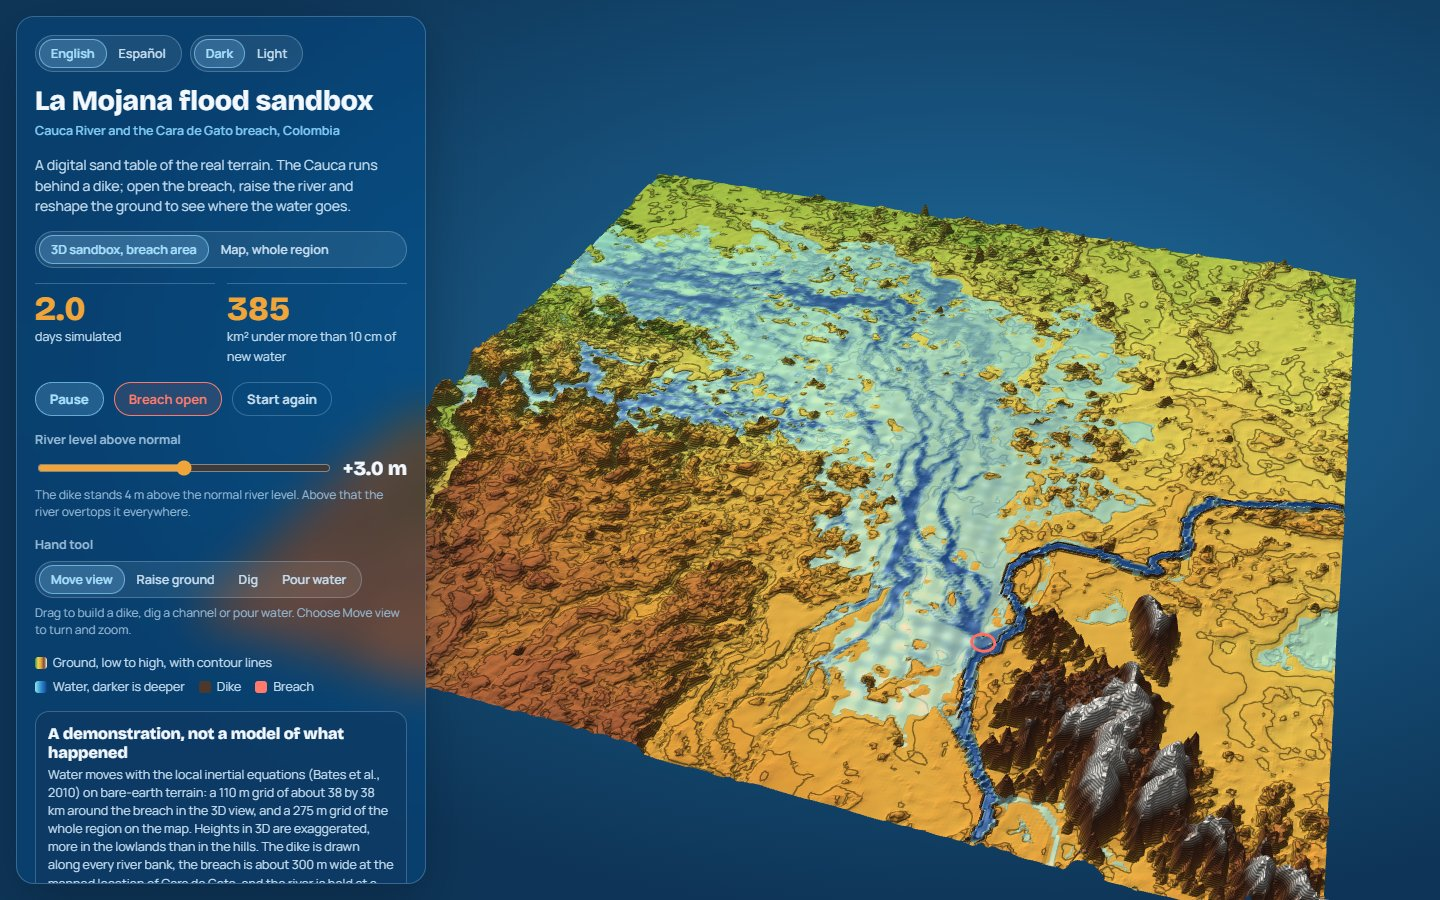
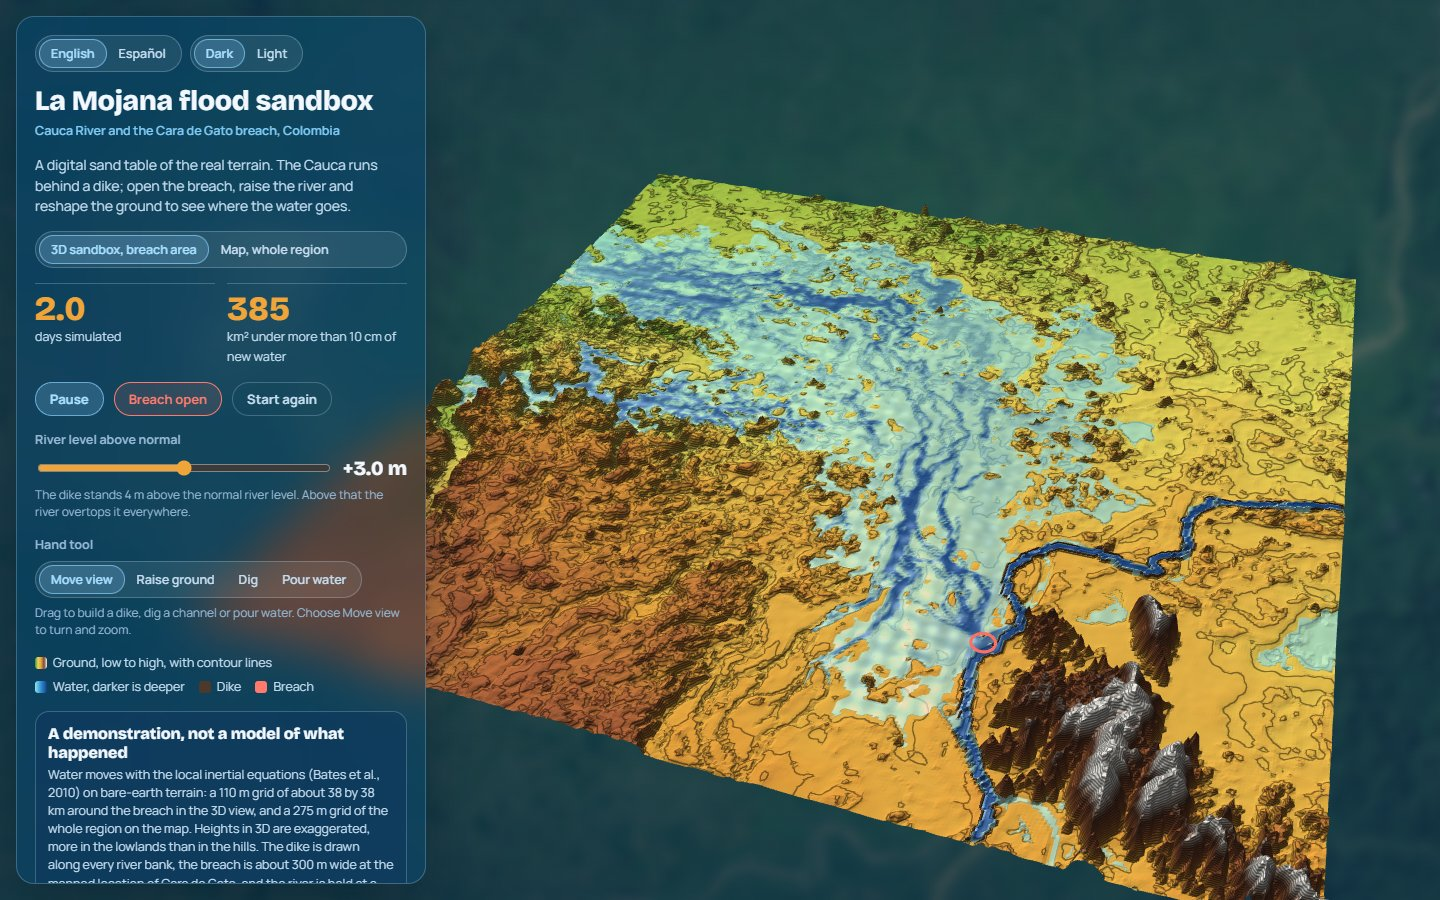
Sandbox: blurred satellite image behind the 3D table

diff --git a/docs/sandbox/index.html b/docs/sandbox/index.html
@@ -30,6 +30,9 @@
 html,body{margin:0;height:100%;background:radial-gradient(ellipse 90% 80% at 68% 42%,var(--bg2),var(--bg) 75%) fixed var(--bg);color:var(--ink);font-family:var(--body);font-size:14px;line-height:1.45}
 #map,#three{position:fixed;inset:0}
 #three{display:block;width:100%;height:100%;touch-action:none}
+#bgmap,#tint{position:fixed;inset:0;pointer-events:none}
+#bgmap{filter:blur(5px) saturate(1.15);transform:scale(1.04)}   /* scaled a little so the blurred edges stay off screen */
+#tint{background:radial-gradient(ellipse 90% 80% at 68% 42%,color-mix(in srgb,var(--bg2) 38%,transparent),color-mix(in srgb,var(--bg) 72%,transparent) 80%)}
 #map.tool,#three.tool{cursor:crosshair}
 [hidden]{display:none!important}
 .ramp{display:inline-block;width:46px;height:12px;border-radius:3px;margin-right:6px;vertical-align:middle;background:linear-gradient(90deg,#3f8f3a,#e3d65a,#e8a33d,#7a4b33,#f2efe9)}
@@ -81,6 +84,7 @@ input[type=range]{flex:1;accent-color:var(--flood)}
 </head>
 <body>
 <canvas id="sim"></canvas>
+<div id="bgmap" aria-hidden="true"></div><div id="tint" aria-hidden="true"></div>
 <canvas id="three" role="img" aria-label="3D view of the terrain around the Cara de Gato breach with the simulated water"></canvas>
 <div id="map" role="img" aria-label="Map of La Mojana with the simulated flood water" hidden></div>
 <div class="ui">
@@ -270,7 +274,7 @@ function loadGrid(name){return grids[name]||(grids[name]=fetch(name).then(r=>r.j
 async function showScene(name){
   scene=name;
   document.querySelectorAll("[data-scene]").forEach(o=>o.setAttribute("aria-pressed",o.dataset.scene===name));
-  $("mapOnly").hidden=name!=="map"; $("map").hidden=name!=="map"; $("three").hidden=name!=="3d";
+  $("mapOnly").hidden=name!=="map"; $("map").hidden=name!=="map"; for(const id of ["three","bgmap","tint"]) $(id).hidden=name!=="3d";
   setup(await loadGrid(name==="3d"?"grid_breach.json":"grid.json"));
   if(name==="3d"){ if(!scene3) scene3=await build3d(); else scene3.rebuild(); }
   else { if(!map) buildMap(); else {map.resize(); setMapSources();} draw(); }
@@ -280,6 +284,11 @@ async function showScene(name){
 // ---- 3D sand table (three.js) ----
 async function build3d(){
   const THREE=await import("three"), {OrbitControls}=await import("three/addons/controls/OrbitControls.js");
+  // satellite image of the same area behind the table, blurred under a translucent tint
+  const gb=(await loadGrid("grid_breach.json")).box;
+  new maplibregl.Map({container:"bgmap",interactive:false,attributionControl:false,fadeDuration:0,
+    style:{version:8,sources:{esri:{type:"raster",tileSize:256,maxzoom:19,tiles:["https://server.arcgisonline.com/ArcGIS/rest/services/World_Imagery/MapServer/tile/{z}/{y}/{x}"]}},layers:[{id:"esri",type:"raster",source:"esri"}]},
+    bounds:[[gb[0]-0.12,gb[1]-0.05],[gb[2]+0.05,gb[3]+0.05]]});
   const canvas=$("three"), renderer=new THREE.WebGLRenderer({canvas,antialias:true,alpha:true});
   renderer.setPixelRatio(Math.min(devicePixelRatio,2));
   const sc=new THREE.Scene(), cam=new THREE.PerspectiveCamera(38,1,1,5000);
